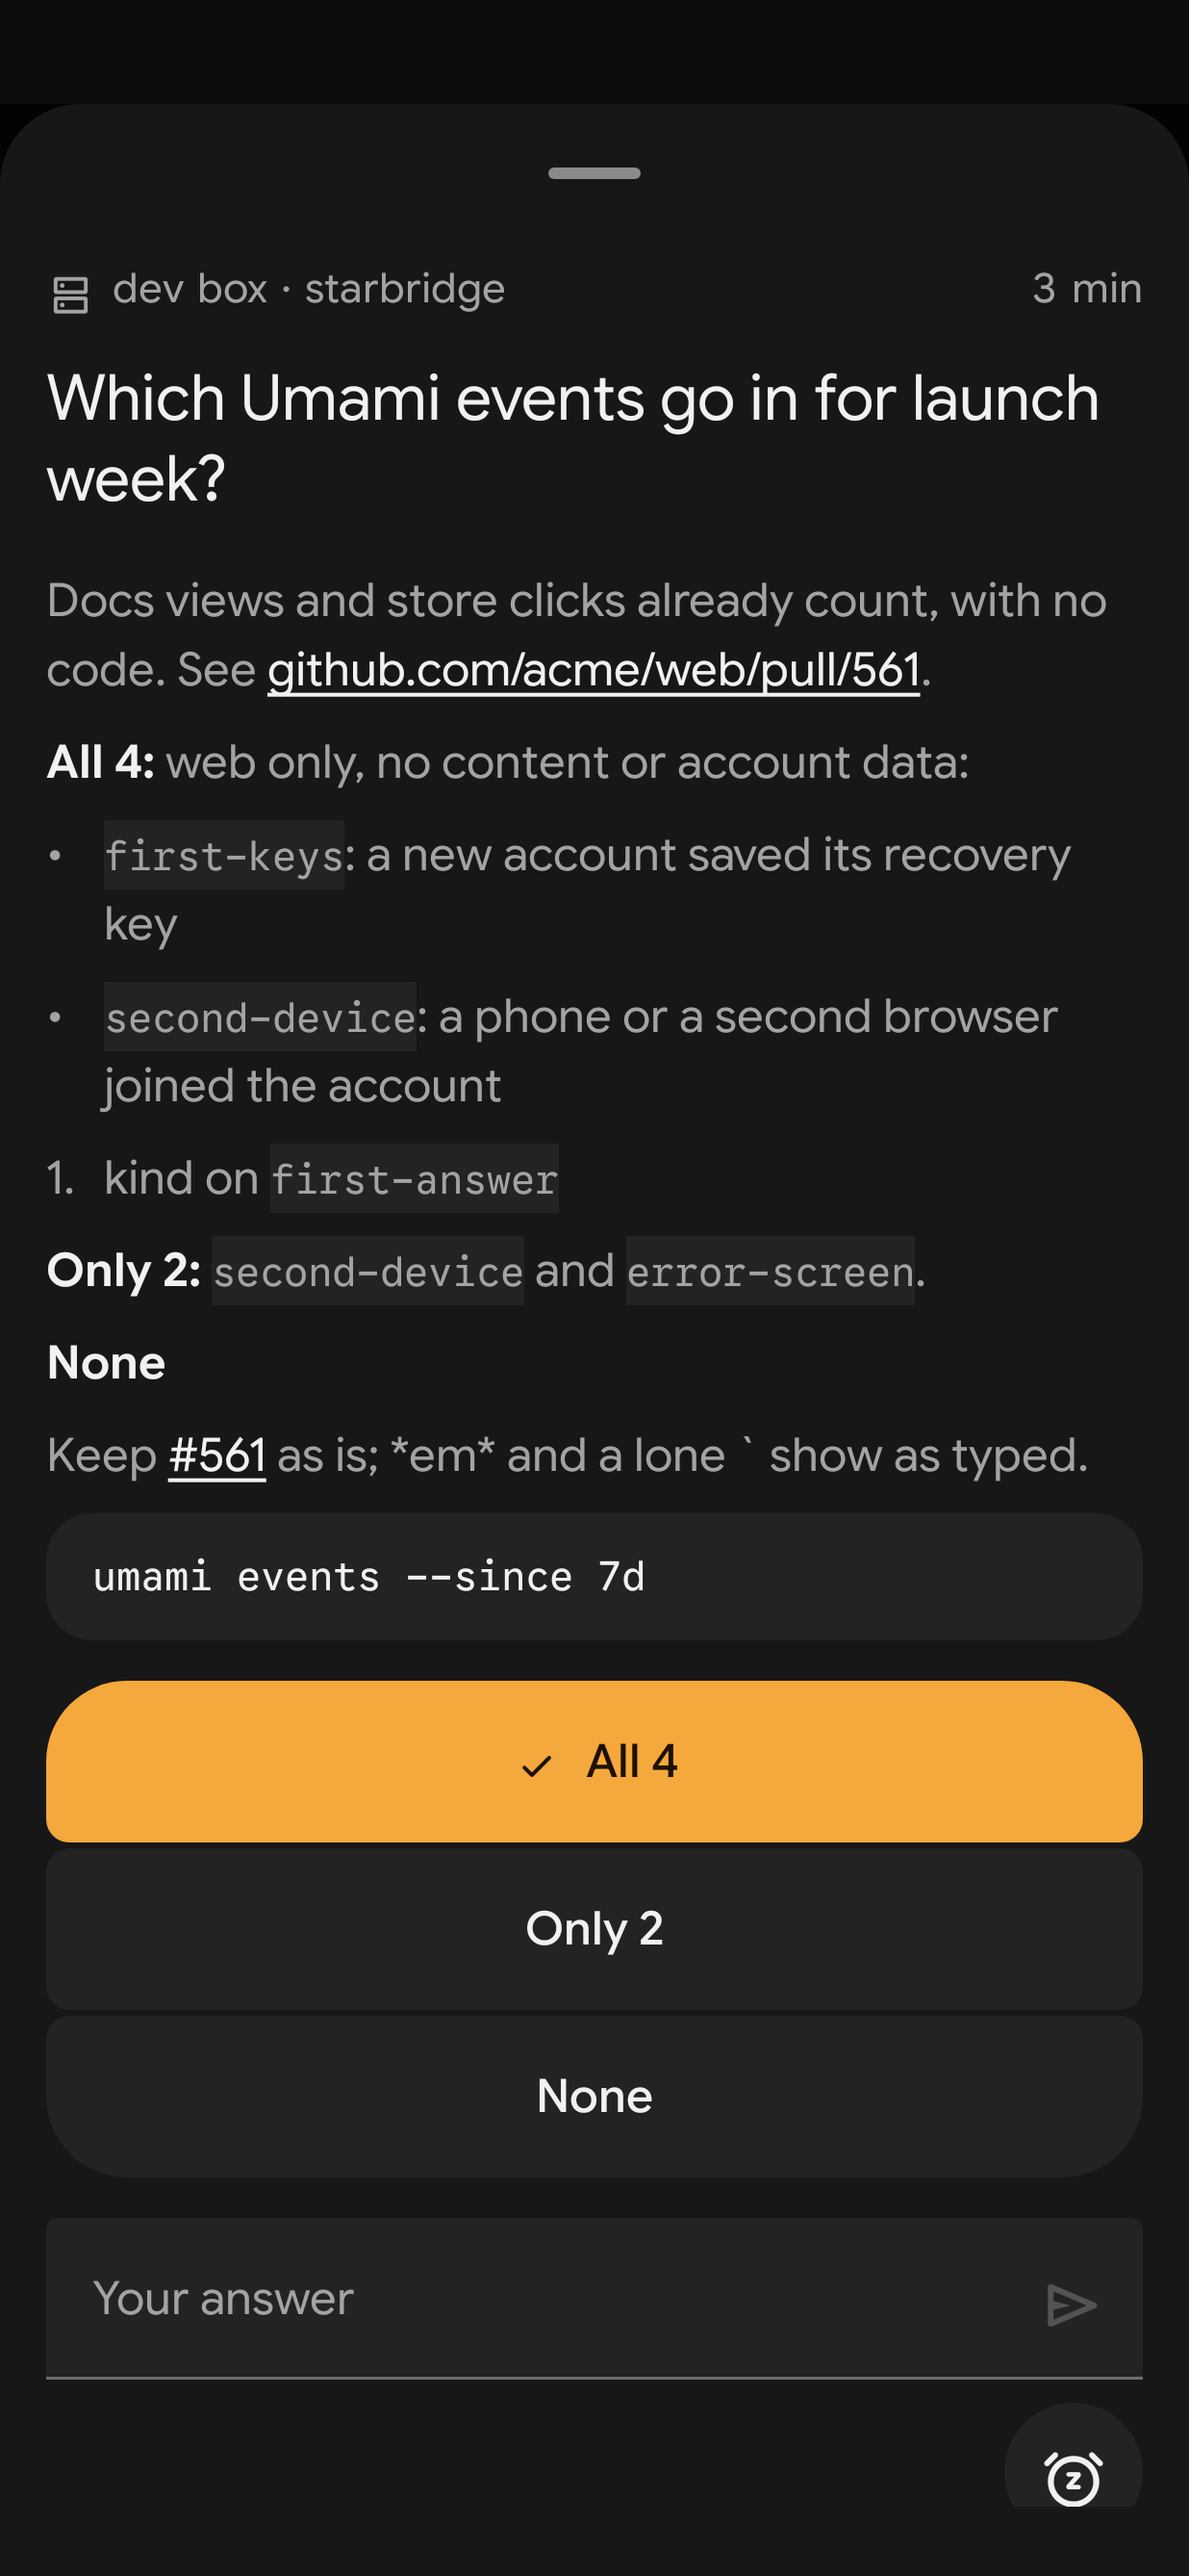
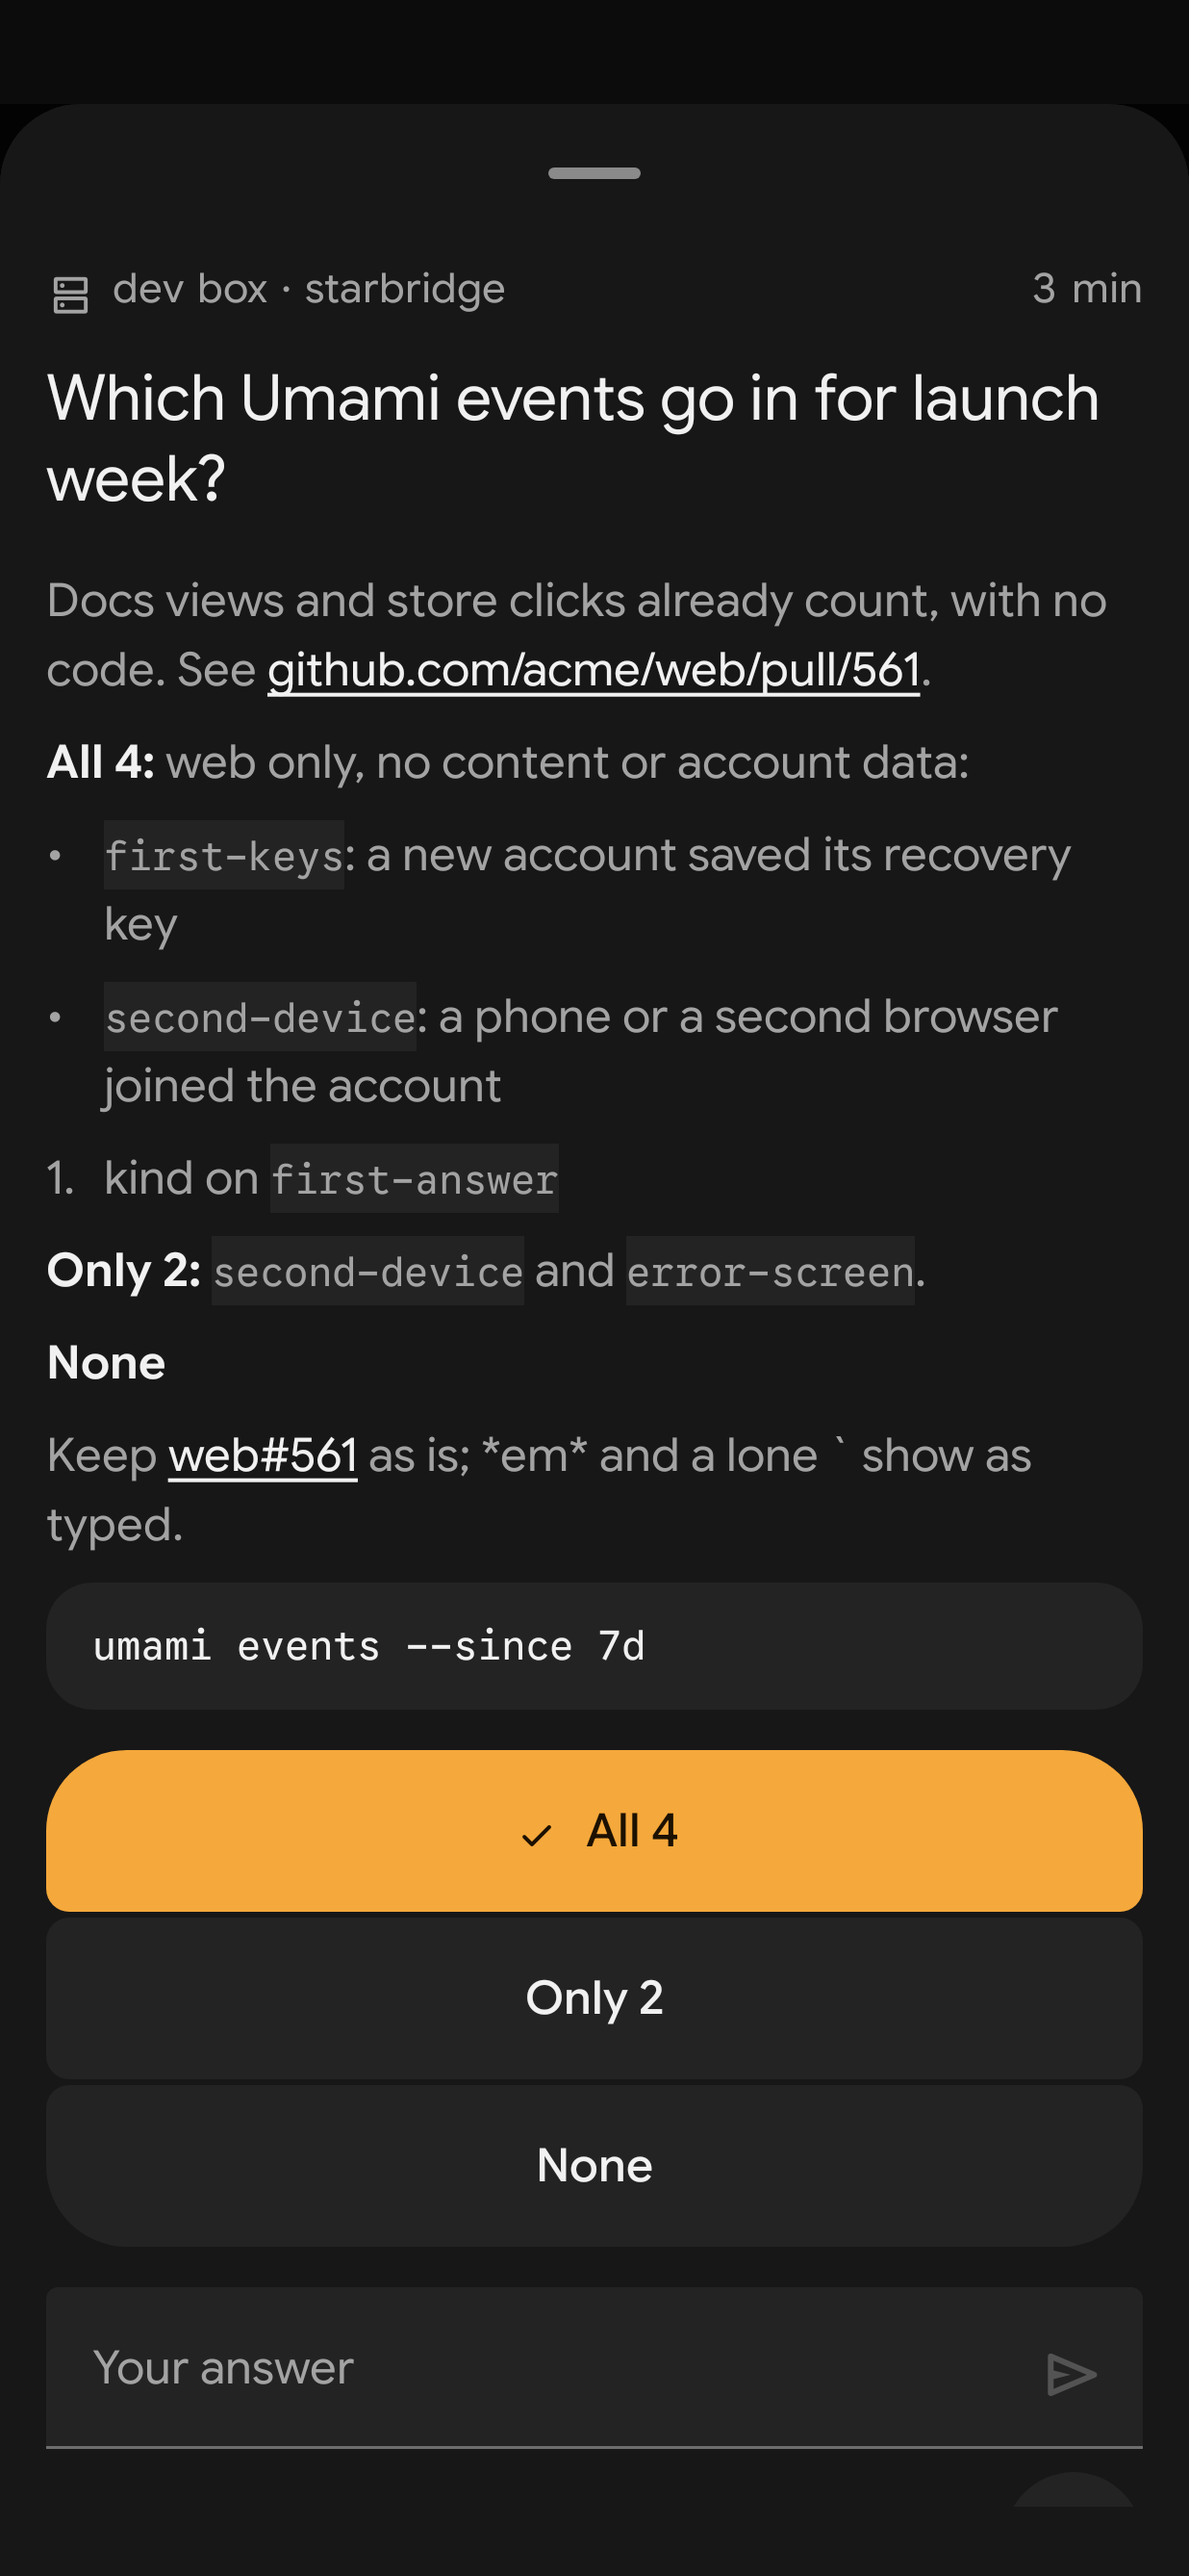
Tests: the Android sheet screenshot and iPhone history read a link by the shared rule (#2203)

diff --git a/ios/StarbridgeTests/HistoryTests.swift b/ios/StarbridgeTests/HistoryTests.swift
@@ -23,6 +23,7 @@ final class HistoryTests: XCTestCase {
         let store = Store(vault: MemoryVault(), disk: Disk(url: dir.appendingPathComponent("saved.json")), deviceName: "Test iPhone")
         XCTAssertEqual(HistoryText.how(try settledElsewhere([:]), store), "Answered · at the keyboard")
         let paged = try settledElsewhere(["answerIn": ["url": "https://example.test/review", "title": "the review page"]])
-        XCTAssertEqual(HistoryText.how(paged, store), "Answered in the review page · by the agent")
+        // Another host than GitHub or a Claude artifact reads as itself, never the agent's title (#2203).
+        XCTAssertEqual(HistoryText.how(paged, store), "Answered in example.test/review · by the agent")
     }
 }
